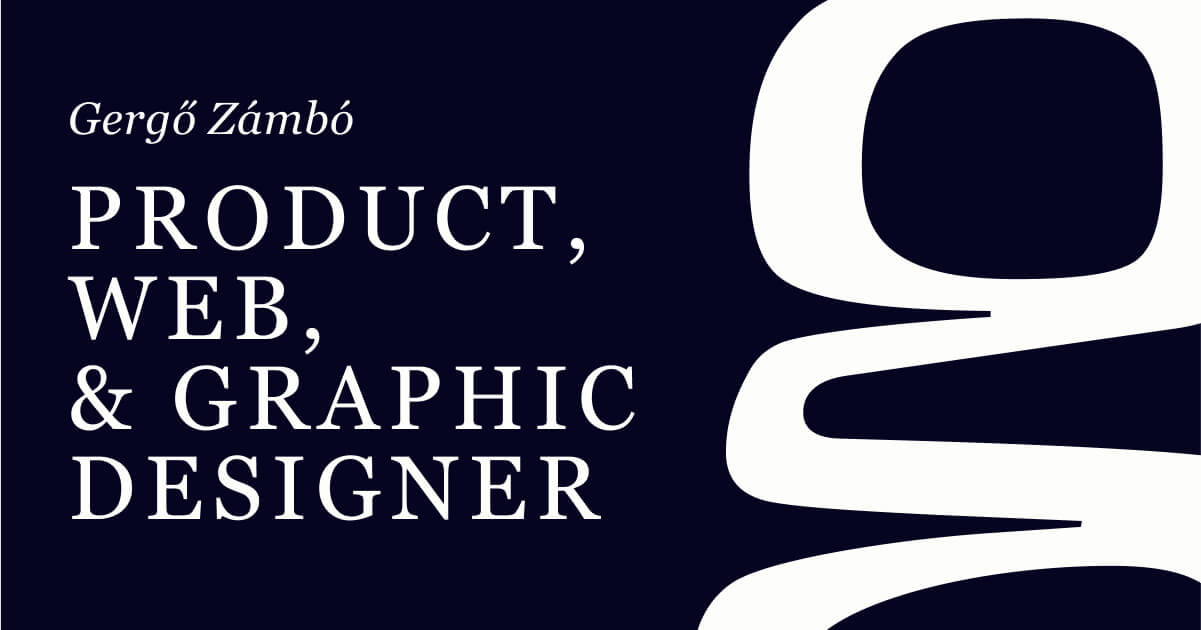
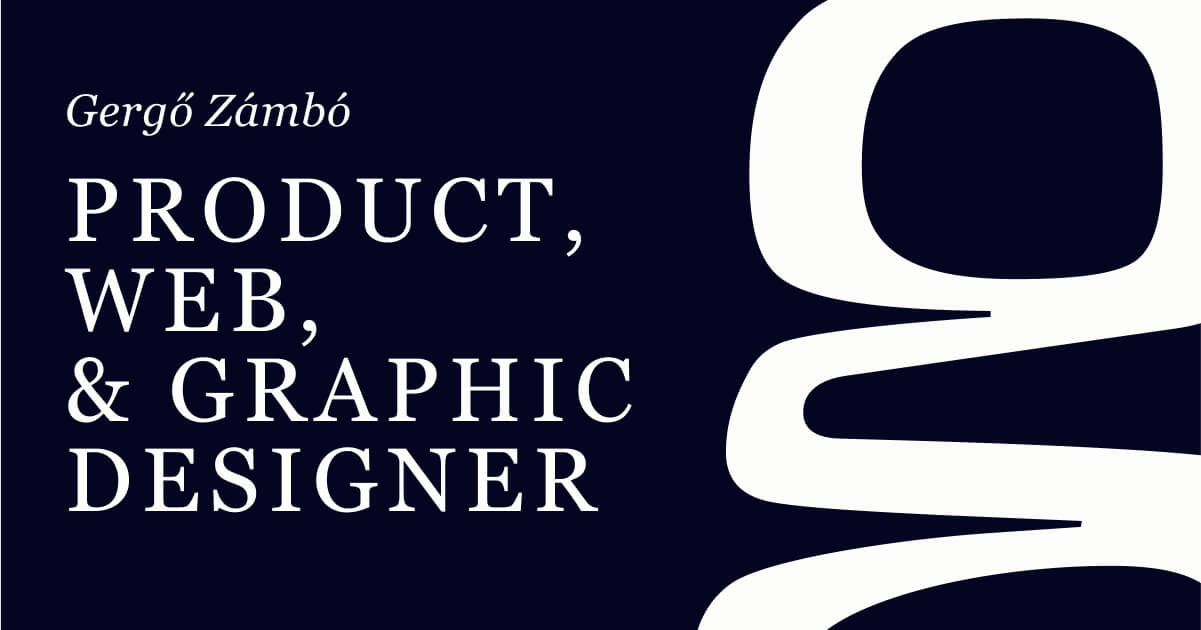
Removed slashes from notion links, modified Behance link, and updated the social cover.

Changed region(s): [[0.0308, 0.2714, 0.5237, 0.8444], [0.0308, 0.1508, 0.3081, 0.2413]]

diff --git a/index.html b/index.html
@@ -81,17 +81,17 @@
             <img src="/img/bantu.avif" width="400" height="400" alt="Bantu financial mobile app screens">
             <hgroup>
               <p>2024
-              <h4><a href="https://gergozambo.notion.site/Outings-without-financial-hassle-Bantu-mobile-app-20549d87503c801eb7d9e3f78a3bcc7c/">Outings without a financial hassle</a></h4>
+              <h4><a href="https://gergozambo.notion.site/Outings-without-financial-hassle-Bantu-mobile-app-20549d87503c801eb7d9e3f78a3bcc7c">Outings without a financial hassle</a></h4>
               <p>Designed a mobile social app streamlining shared expenses for young adults
             </hgroup>
             <p>Bantu is a British financial social app that focuses on social interactions for young adults to handle expenses more easily at outings and group planning. The challenge was to redesign the information architecture based on the product vision in a way that is still familiar to financial app users. We used generative <abbr>AI</abbr> for branding and deviated from the all-too-common minimalist <abbr>UI</abbr> and brand design direction to appeal to our target audience.
-            <p><a href="https://gergozambo.notion.site/Outings-without-financial-hassle-Bantu-mobile-app-20549d87503c801eb7d9e3f78a3bcc7c/">Read the case study →</a>
+            <p><a href="https://gergozambo.notion.site/Outings-without-financial-hassle-Bantu-mobile-app-20549d87503c801eb7d9e3f78a3bcc7c">Read the case study →</a>
           </article>
 
           <article>
             <hgroup>
               <p>2023
-              <h4><a href="https://gergozambo.notion.site/Conversations-in-uncertainty-Prefixbox-AI-agent-20549d87503c80b1902aefa52f7d888d/">Conversations in uncertainty</a></h4>
+              <h4><a href="https://gergozambo.notion.site/Conversations-in-uncertainty-Prefixbox-AI-agent-20549d87503c80b1902aefa52f7d888d">Conversations in uncertainty</a></h4>
             </hgroup>
             <p>Designed a white label e-commerce <abbr>AI</abbr> agent built with generative <abbr>AI</abbr> to engage customers & drive sales
           </article>
@@ -99,7 +99,7 @@
           <article>
             <hgroup>
               <p>2020
-              <h4><a href="https://gergozambo.notion.site/Building-communities-through-meta-design-Plan-Pal-web-app-20449d87503c8011bdf9c55dc5a3bab5/">Building communities through meta design</a></h4>
+              <h4><a href="https://gergozambo.notion.site/Building-communities-through-meta-design-Plan-Pal-web-app-20449d87503c8011bdf9c55dc5a3bab5">Building communities through meta design</a></h4>
             </hgroup>
             <p>Designed a desktop web app for landscape architects to facilitate participatory design and better insights
           </article>
@@ -311,7 +311,7 @@
       <h4>Contact</h4>
       <p>Text me or follow my work
     </hgroup>
-    <p>Get in touch with me via email ( see my address in <a href="https://gergozambo.com/docs/gergo-zambo-resume-2024-12-08.pdf" target="_blank" rel="noopener noreferrer">my resume</a> ) or <a href="https://www.linkedin.com/in/gergozambo/">LinkedIn</a>. Follow me on <a href="https://www.linkedin.com/in/gergozambo/">Behance</a> or on <a href="https://fontsinuse.com/designers/21199/gergo-zambo">Fonts in Use</a>.
+    <p>Get in touch with me via email ( see my address in <a href="https://gergozambo.com/docs/gergo-zambo-resume-2024-12-08.pdf" target="_blank" rel="noopener noreferrer">my resume</a> ) or <a href="https://www.linkedin.com/in/gergozambo/">LinkedIn</a>. Follow me on <a href="https://www.behance.net/zambogergo">Behance</a> or on <a href="https://fontsinuse.com/designers/21199/gergo-zambo">Fonts in Use</a>.
 
     <ul>
       <li><a href="https://gergozambo.com/docs/gergo-zambo-resume-2024-12-08.pdf" target="_blank" rel="noopener noreferrer">Download my resume ( <abbr>PDF</abbr>, 112 KB )</a>
